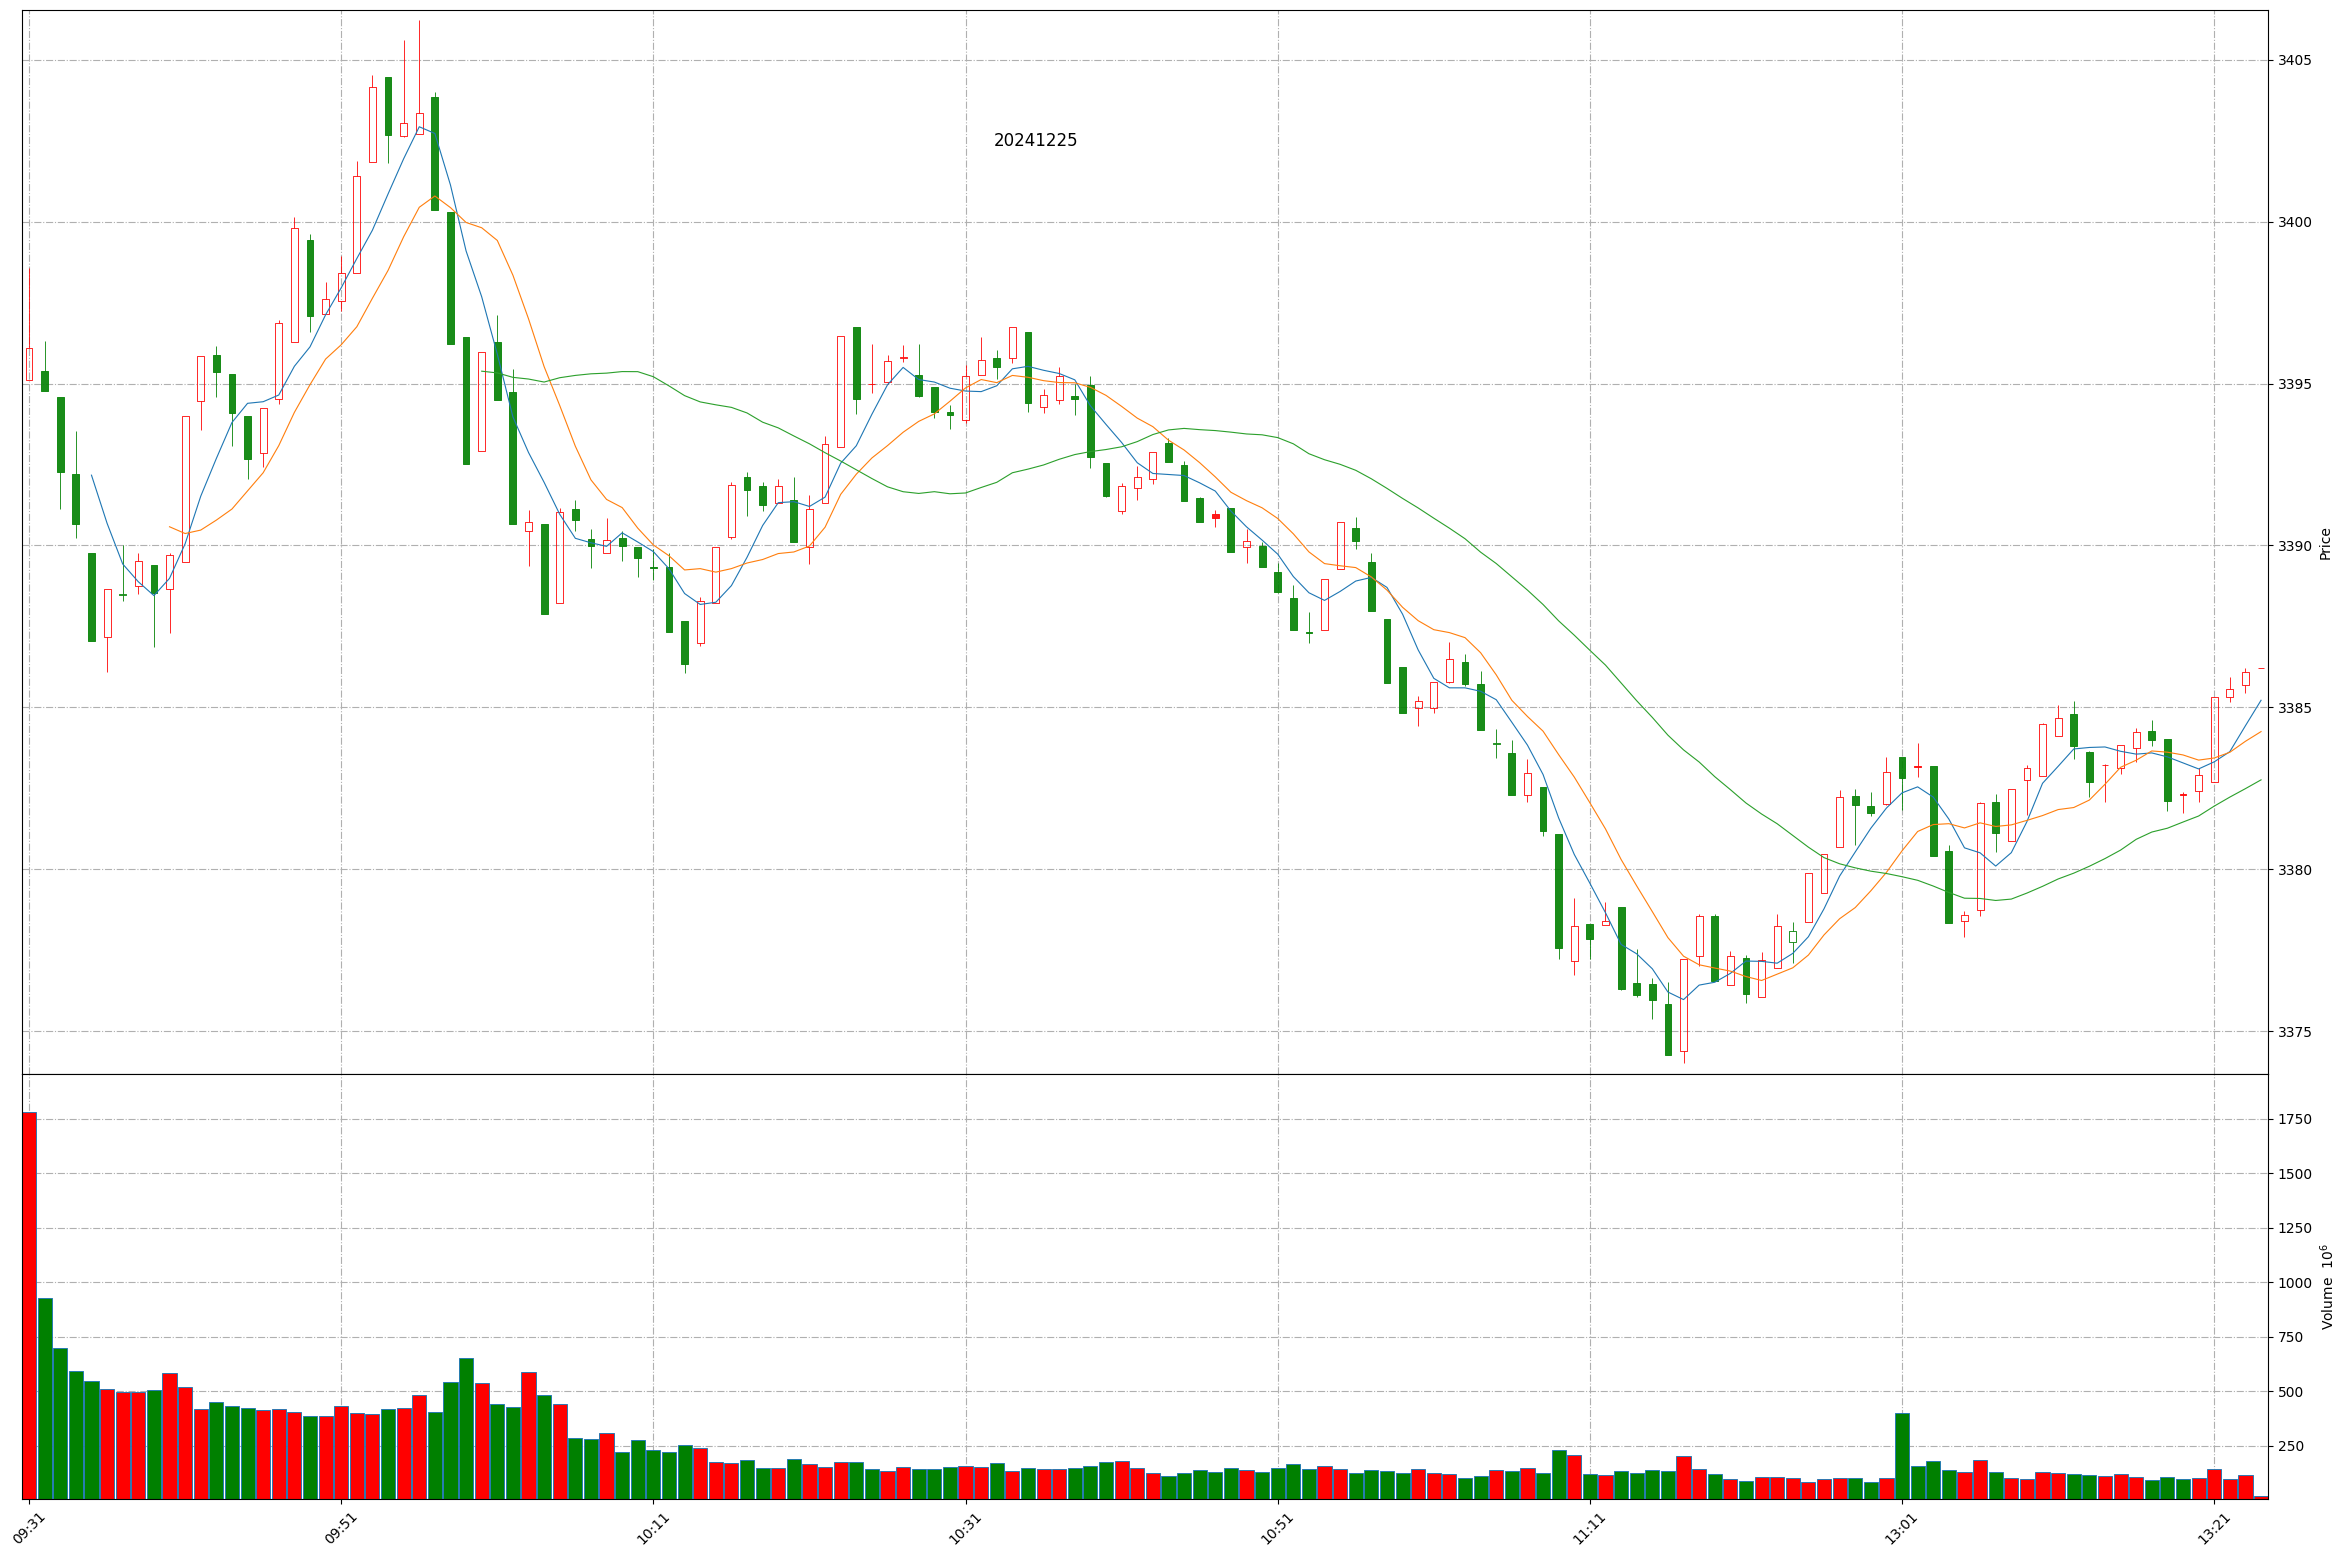
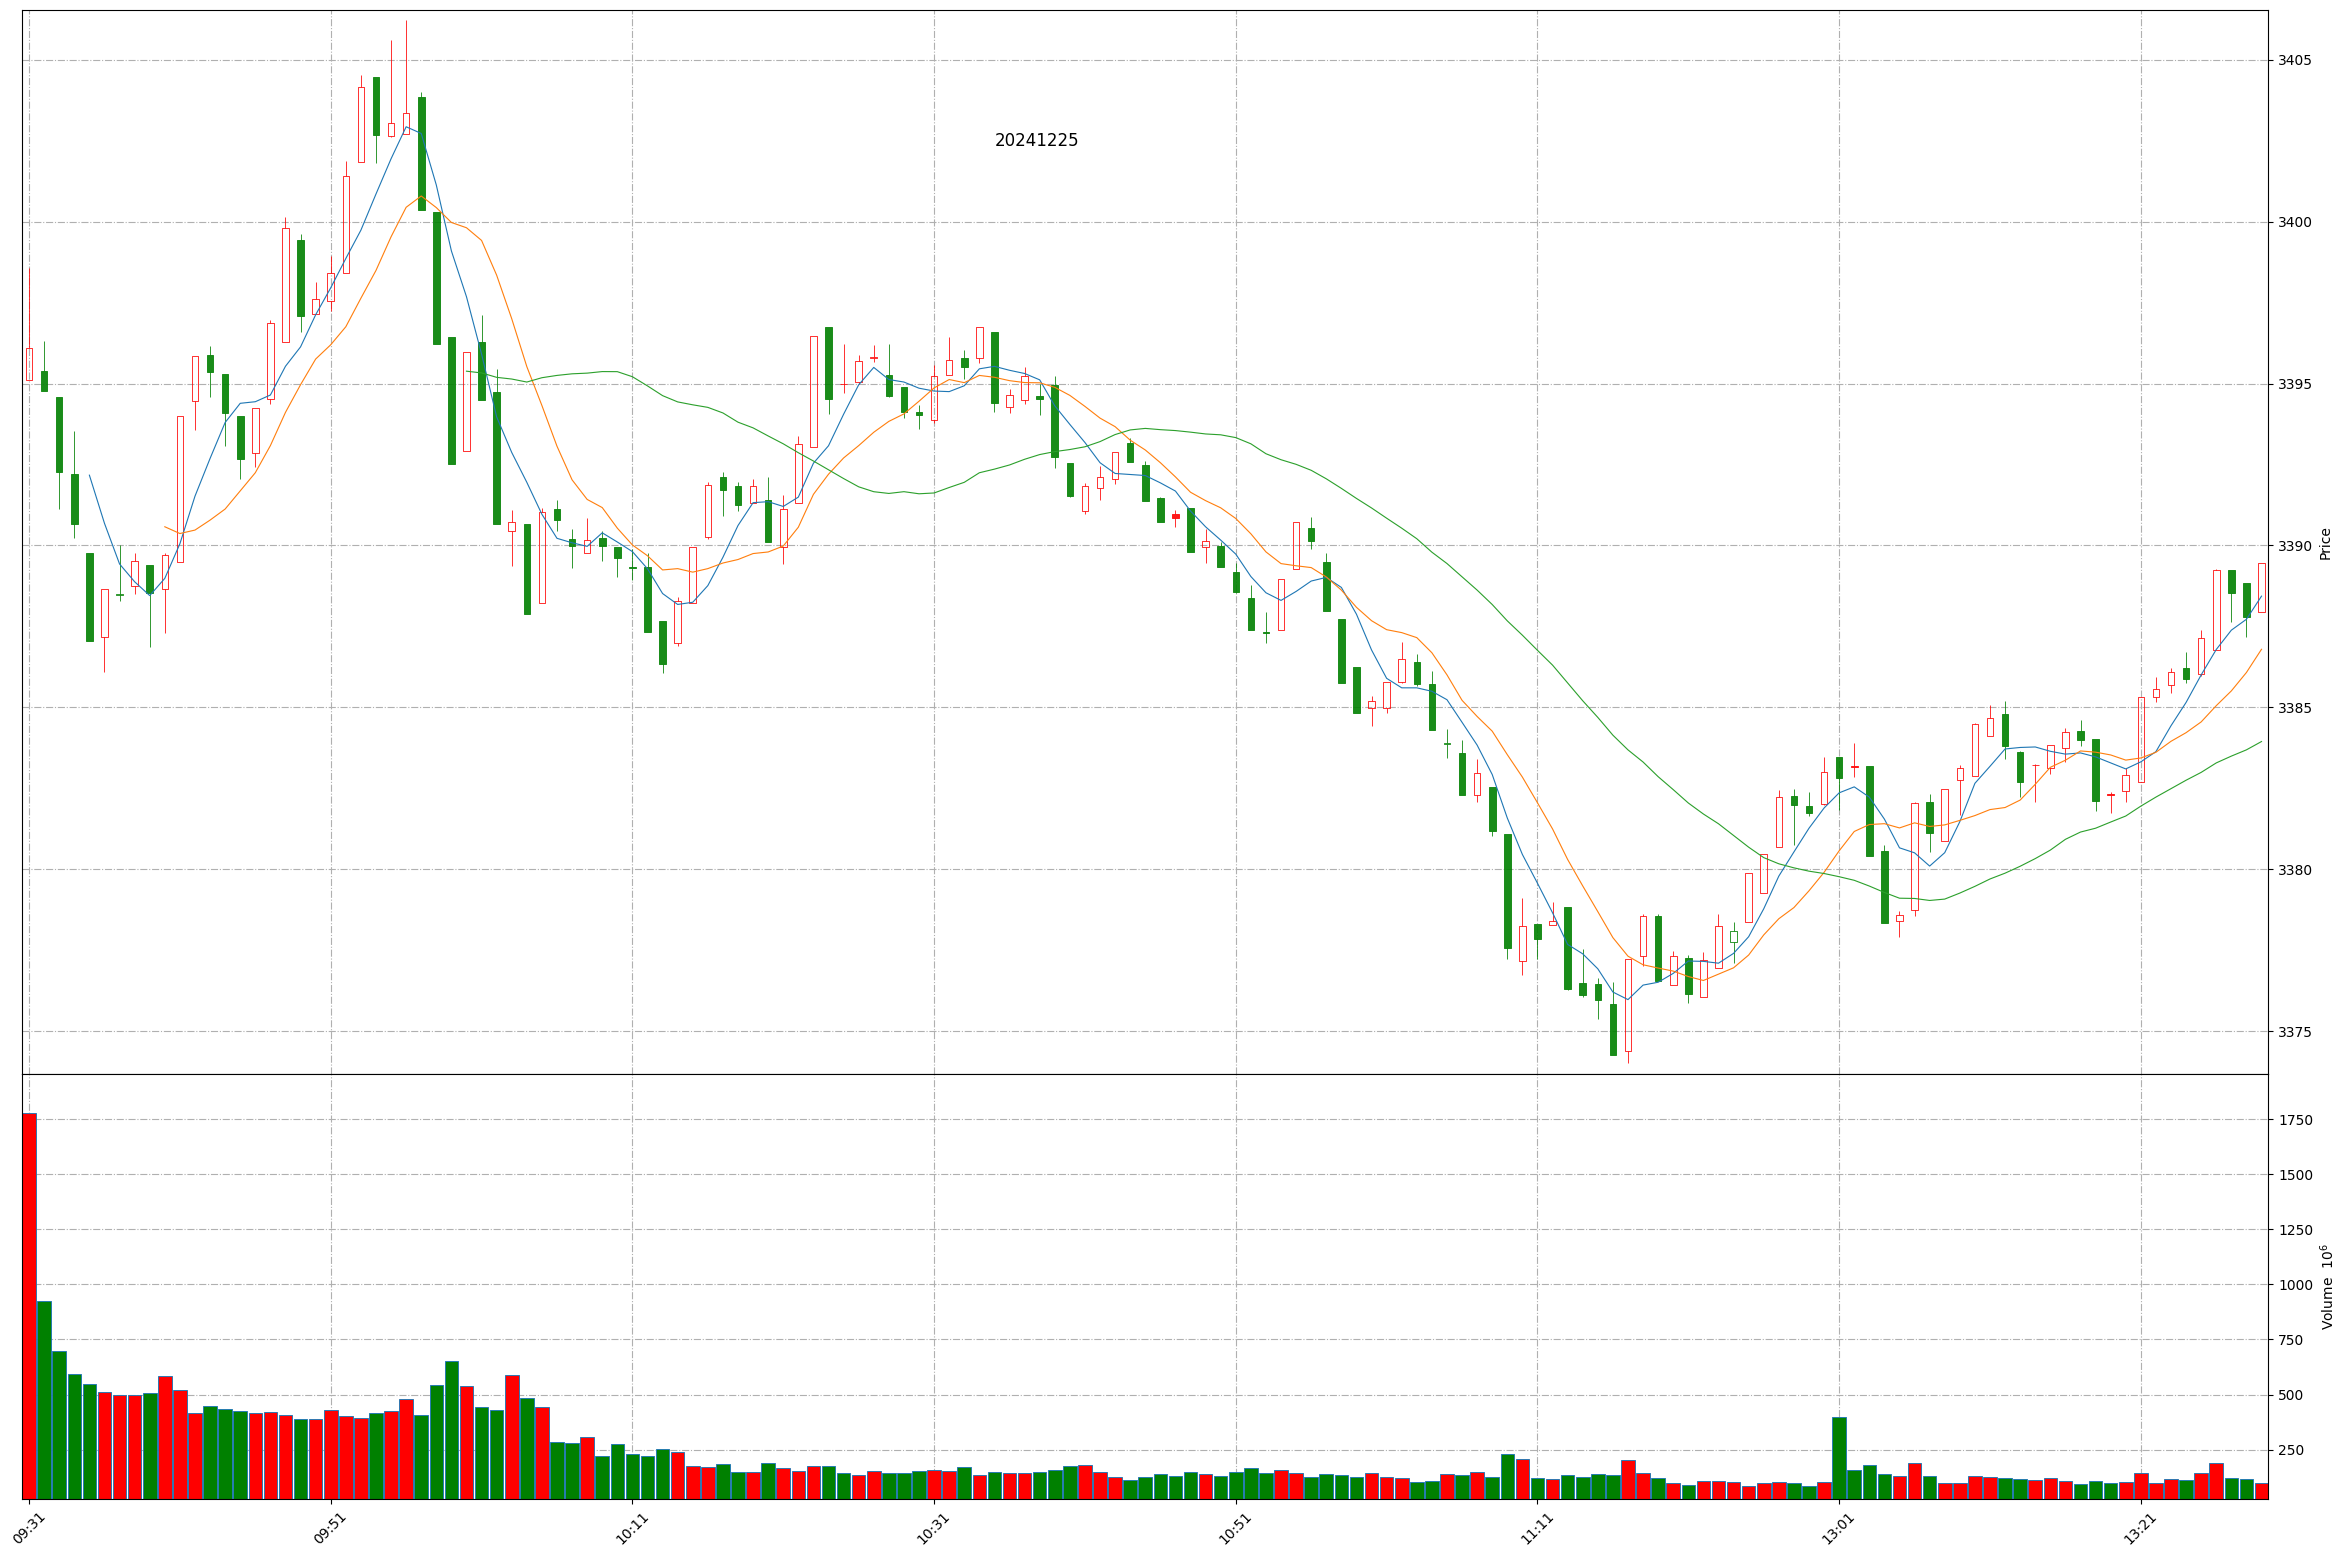
Github action update at 2024-12-25 13:29:19.

Changed region(s): [[0.0622, 0.0308, 0.9642, 0.6782], [0.0, 0.8632, 0.9642, 0.9865], [0.0311, 0.3083, 0.0933, 0.4008]]

diff --git a/README.md b/README.md
@@ -1,11 +1,11 @@
 
 # Daily-A-share-market-quotes 每日 A 股指数（5min 更新）- 20241225
 
-### 上证指数 20241225 13:23
+### 上证指数 20241225 13:29
 ![](./fig/2024/12/20241225-sh000001.png)
 
-### 深证成指 20241225 13:23
+### 深证成指 20241225 13:29
 ![](./fig/2024/12/20241225-sz399001.png)
 
-### 北证50 20241225 13:23
+### 北证50 20241225 13:29
 ![](./fig/2024/12/20241225-bj899050.png)
